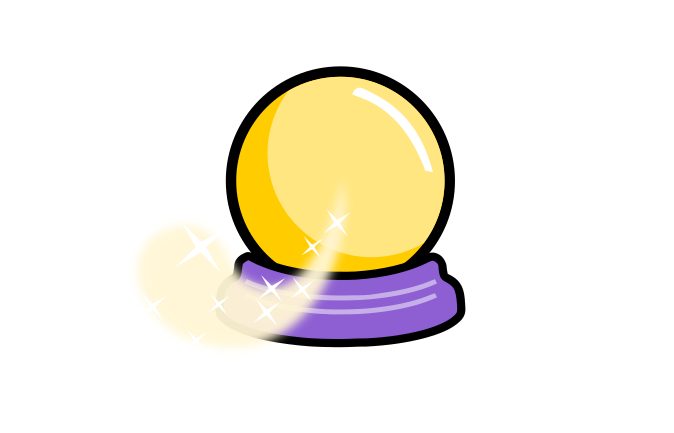
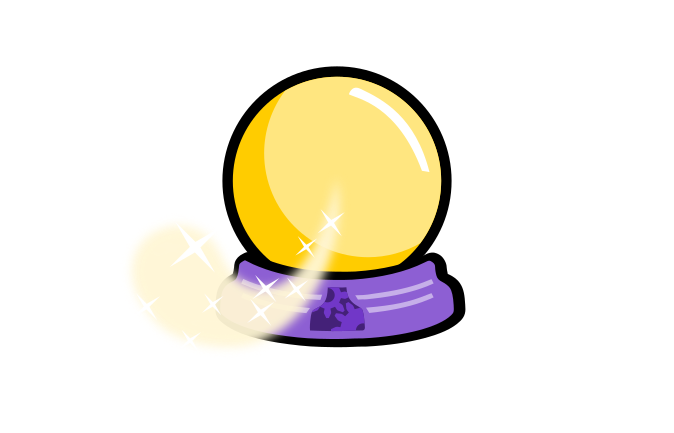
better stats, more arts

diff --git a/example/template.html b/example/template.html
@@ -12,8 +12,12 @@
     }
 
     .stats {
-      background-image: {{#ifeq _.type "device"}}url("assets/backgrounds/device_stats.png"),{{/ifeq}}
-                        {{#ifeq _.type "minion"}}url("assets/backgrounds/minion_stats.png"),{{/ifeq}}
+      background-image: {{#ifeq _.type "device"}}
+                          url("assets/backgrounds/{{_.element}}_device_stats.png"),
+                        {{/ifeq}}
+                        {{#ifeq _.type "minion"}}
+                          url("assets/backgrounds/{{_.element}}_minion_stats.png"),
+                        {{/ifeq}}
                         url();
     }
 
@@ -62,7 +66,7 @@
   </div>
   <img class="template" src="assets/images/template.png">
   <a download="{{lowercase _.name}}.png">
-    <canvas width="825" height="1125"></canvas>
+    <canvas width="{{_pc.size.width}}" height="_pc.size.height"></canvas>
   </a>
   <button onclick="render()">RENDER</button>
 </body>

diff --git a/example/assets/main.css b/example/assets/main.css
@@ -17,7 +17,7 @@
   text-shadow: 2px 2px black;
   position: absolute;
   left: 46px;
-  top: 88px;
+  top: 81px;
   width: 619px;
   height: 82px;
 }
